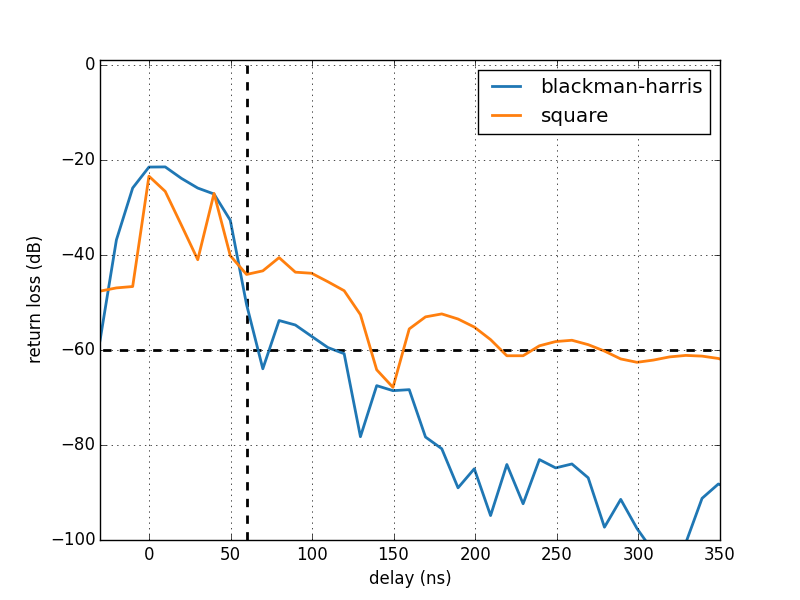
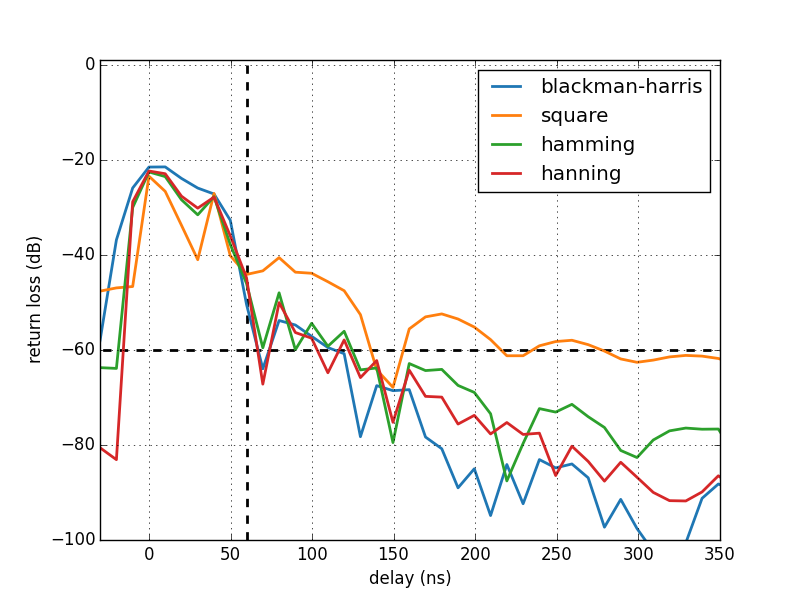
add more window funcs in bh_vs_sq plot

diff --git a/plots/plot_bh_vs_sq.py b/plots/plot_bh_vs_sq.py
@@ -37,8 +37,12 @@ fq, phs= fromcsv(file_base + phs)
 
 valid = n.where(n.logical_and(fq>.1, fq<.2))
 dw, d, tau = take_delay(amps[valid], phs[valid], fq[valid])
+dwhm, d, tau = take_delay(amps[valid], phs[valid], fq[valid], window='hamming')
+dwhn, d, tau = take_delay(amps[valid], phs[valid], fq[valid], window='hanning')
 p.plot(tau, 10*n.log10(n.abs(dw)**2), linewidth=2, label='blackman-harris', color=colors[0])
 p.plot(tau, 10*n.log10(n.abs(d)**2), linewidth=2, label='square', color = colors[1])
+p.plot(tau, 10*n.log10(n.abs(dwhm)**2), linewidth=2, label='hamming', color=colors[2])
+p.plot(tau, 10*n.log10(n.abs(dwhn)**2), linewidth=2, label='hanning', color=colors[3])
 
 p.xlim(-30,350) 
 p.ylim(-100, 1)
